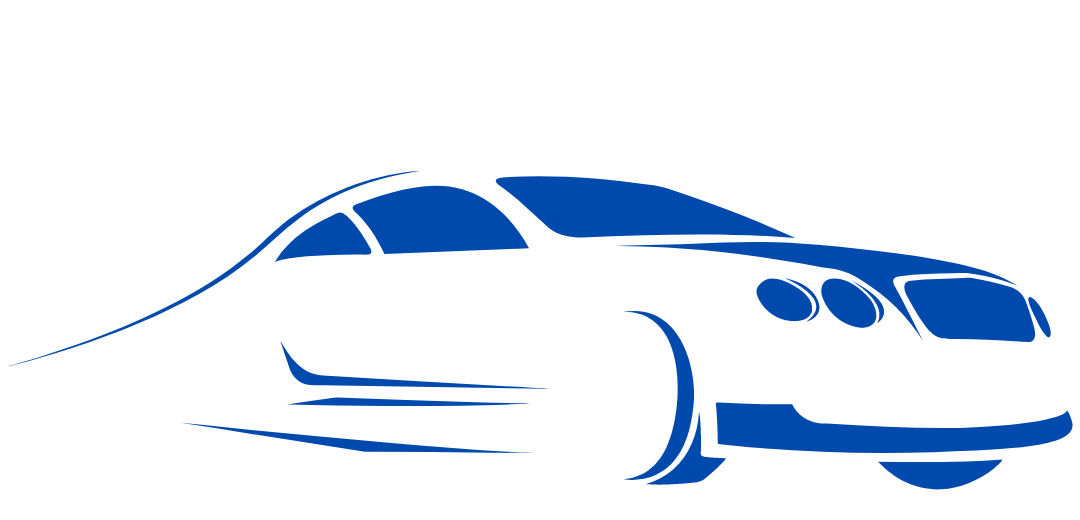
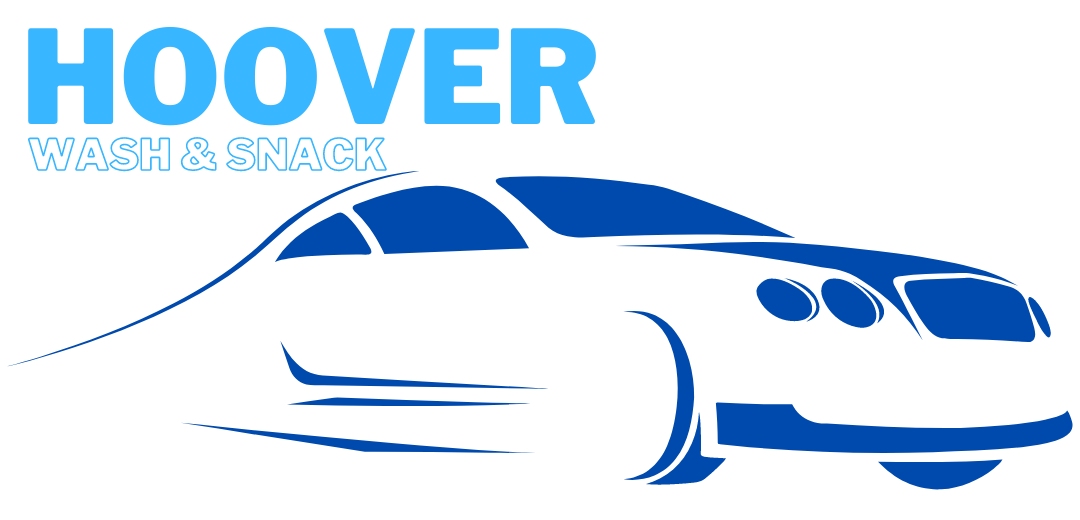
BUG FIXES Fixed the navBar, and updated main page image

Changed region(s): [[0.0, 0.0308, 0.55, 0.3385]]

diff --git a/css/styles.css b/css/styles.css
@@ -4,31 +4,38 @@ body {
   padding: 0;
   margin: 0;
   perspective: 1px;
-  height: 100%;
+  height: auto;
   overflow-x: hidden;
   font-family: 'Roboto';
 }
-.home-banner {
+.banner-container {
   position: relative;
   text-align: center;
-  color: rgb(0, 0, 0);
-  top: 100px;
-  font-size: '100px';
+  color: 38b6ff;
+  margin-top: 15px;
 }
 
 .box{
   width: 100%;
-  height: 100%;
+  height: 90%;
   object-fit: fill;
 }
 /*Text for ontop left */
-.top-left {
+.top-right {
   position: absolute;
   font-family:'Trebuchet MS';
-  top: 18px;
-  left: 16px;
+  top: 80px;
+  right: 16px;
 }
 
+.services{
+  background-color: #57585b;
+  display: inline-block;
+  text-align: center;
+  color: #fff;
+  padding: .8em 8em;
+  z-index: 3;
+}
 
 .left-underline {
   display: inline-block;
@@ -68,7 +75,7 @@ body {
   right: 0;
 }
 div.navbar {
-  position: fixed;
+  position: sticky;
   left: 0;
   top: 0;
   width: 100%;
@@ -122,14 +129,11 @@ li.active > a.nav-button {
   padding: 0;
 }
 .parallax.p1 {
-  background: url(http://wallpapers.wallhaven.cc/wallpapers/full/wallhaven-70374.jpg) no-repeat fixed 50% 0;
   background-size: cover;
-  color: #fff;
+  color: rgb(213, 19, 19);
 }
 .parallax.p2 {
-  background: url(http://wallpapers.wallhaven.cc/wallpapers/full/wallhaven-126549.jpg) no-repeat fixed 50% 0;
-  background-size: cover;
-  color: #fff;
+  color: rgb(215, 0, 0);
 }
 .parallax.p3 {
   background: url(http://wallpapers.wallhaven.cc/wallpapers/full/wallhaven-95766.jpg) no-repeat fixed 70% 0;
@@ -141,7 +145,7 @@ li.active > a.nav-button {
   position: fixed;
   top: 20%;
   left: 50%;
-  border: .5em solid #fff;
+  border: .5em solid rgb(156, 58, 58);
   margin-left: -10%;
   padding: 2em 0;
   text-align: center;

diff --git a/index.html b/index.html
@@ -6,8 +6,10 @@
     <script src="https://cdnjs.cloudflare.com/ajax/libs/jquery-smooth-scroll/1.5.5/jquery.smooth-scroll.min.js"></script>
     <link rel="stylesheet" href="css/styles.css">
   </head>
+
   <body>
     <link href='https://fonts.googleapis.com/css?family=Roboto:400,300' rel='stylesheet' type='text/css'>
+    
     <div class="navbar">
       <ul class="navbar-container">
         <li><a href="/"></a> <span class="logo-span"> <img src="logo.png" width="80" height="80"/></span></a></li>
@@ -16,11 +18,18 @@
         <li class="nav-item active"><a href="#section-1" class="left-underline nav-button" data-scroll>Home</a></li>
       </ul>
     </div>
-    <div class="home-banner" id="section-0">
+
+    <div class="banner-container" id="section-0">
       <img class="box" src="car3.png" alt="Car">
-      <div class="top-left">TOP OF THE LINE SERVICES</div>
+      <div class="top-right">TOP OF THE LINE SERVICES</div>
     </div>
 
+    <div class="services">
+      <h1>Hello.</h1>
+      <h1>Hello.</h1>
+      <h1>Hello.</h1>
+      <h1>Hello.</h1>
+    </div>
     
     <div class="parallax p1" id="section-1">
       <hgroup>
